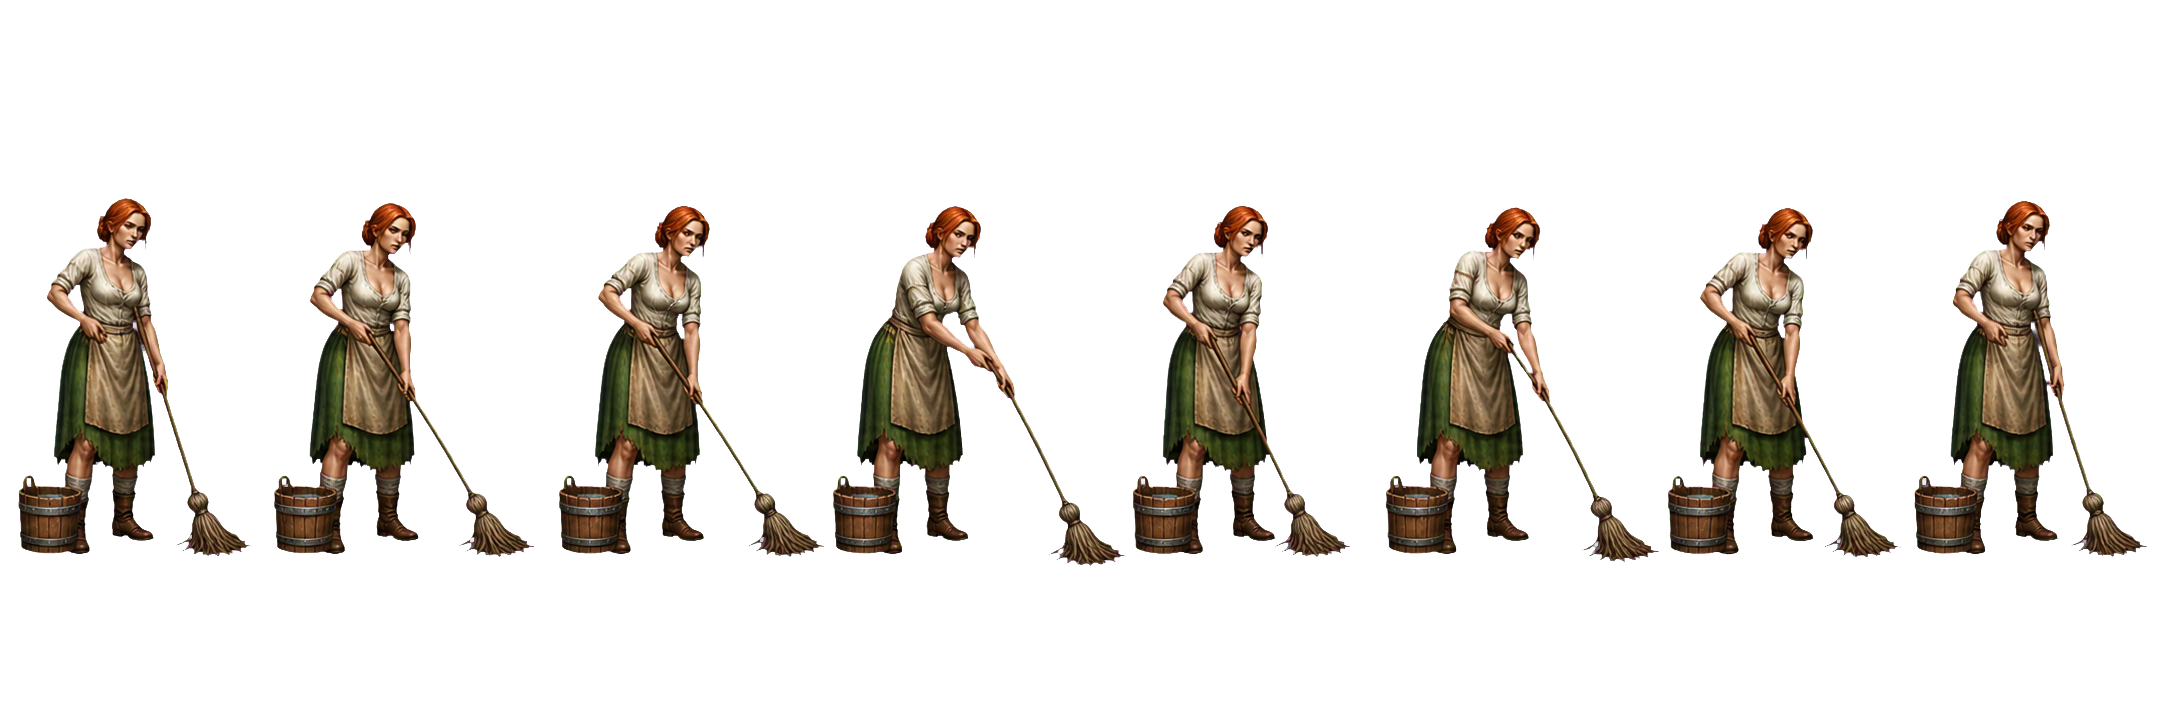
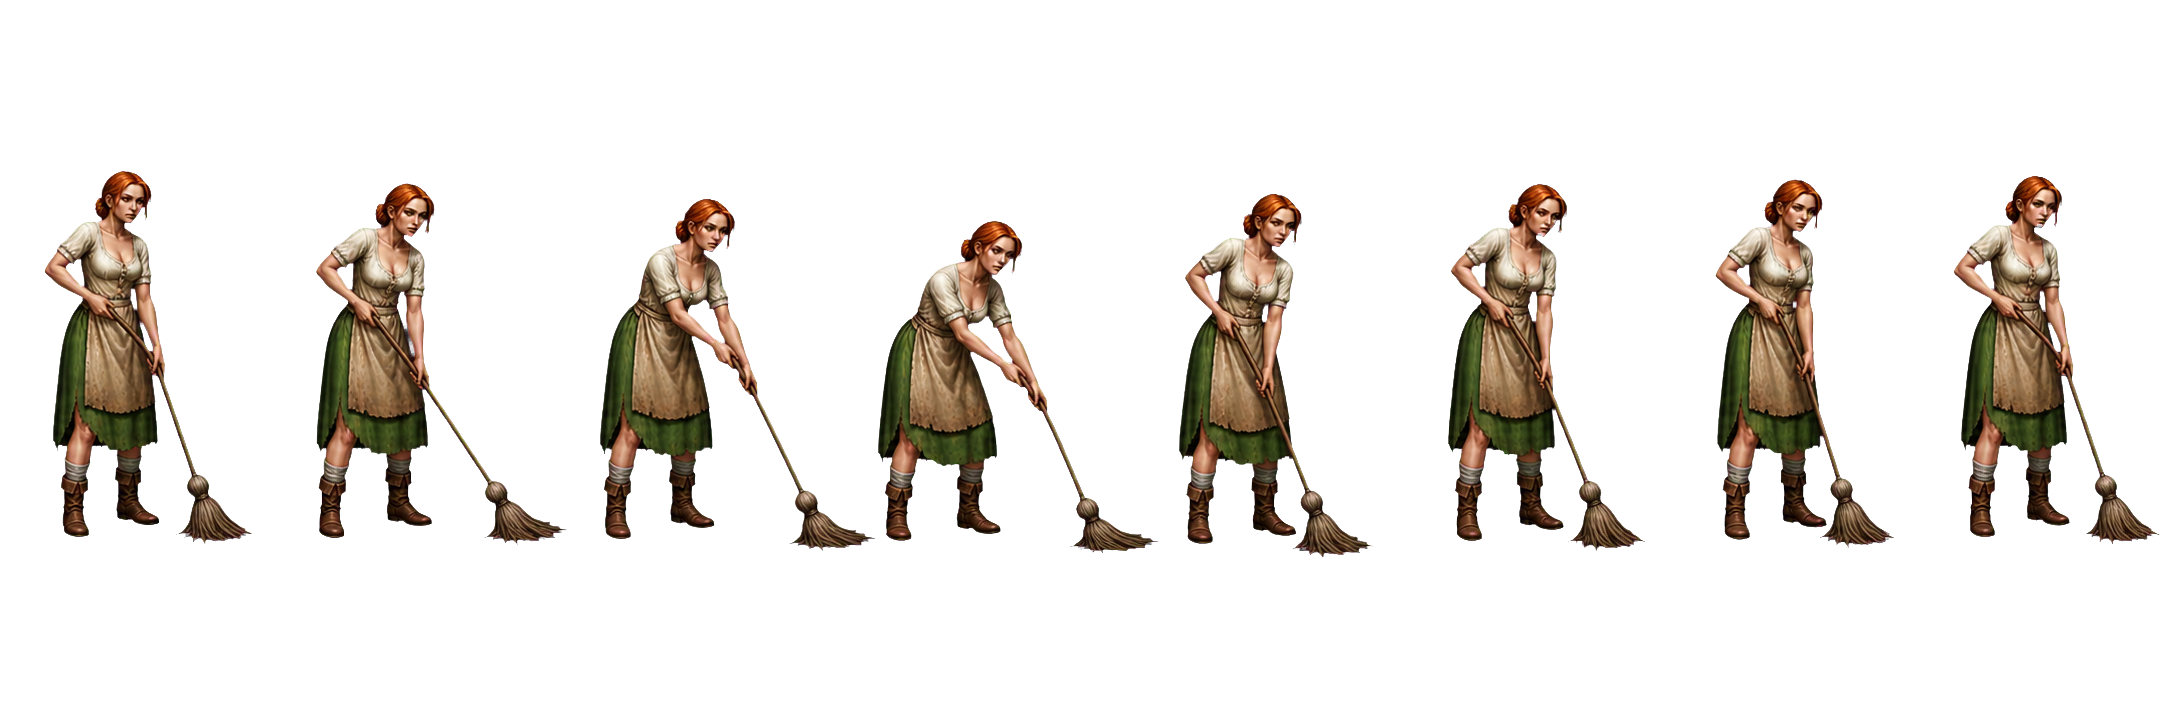
Separate Mira bucket and slow mopping animation

Changed region(s): [[0.0, 0.2431, 1.0, 0.7901]]

diff --git a/src/scenes/LoadingScene.js b/src/scenes/LoadingScene.js
@@ -127,7 +127,8 @@ export class LoadingScene extends Phaser.Scene {
     img('map_bandit_warrior', 'maps/characters/bandit_warrior.png');
     img('map_bandit_archer',  'maps/characters/bandit_archer_map.png');
     img('map_cleaning_girl', 'maps/characters/cleaning_girl.png');
-    sheet('map_cleaning_girl_mop', 'maps/characters/cleaning_girl_mop_sheet.png', { frameWidth: 316, frameHeight: 392 });
+    img('map_cleaning_bucket', 'maps/characters/cleaning_bucket.png');
+    sheet('map_cleaning_girl_mop', 'maps/characters/cleaning_girl_mop_sheet.png', { frameWidth: 320, frameHeight: 405 });
     img('map_dwarf_beer',    'maps/characters/dwarf_beer.png');
     sheet('map_dwarf_beer_drink', 'maps/characters/dwarf_beer_drink_sheet.png', { frameWidth: 379, frameHeight: 520 });
     img('map_dwarf_beer2',   'maps/characters/dwarf_beer2.png');
